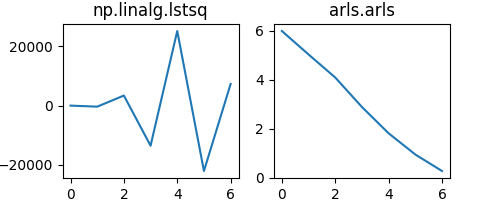
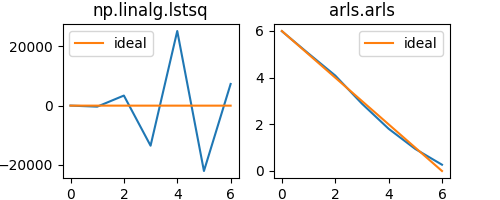
update figure

diff --git a/README.md b/README.md
@@ -112,6 +112,9 @@ x_arls = arls(A, b)
 
 ![example.png](example.png)
 
+It can clearly be noticed, that the standard least squares solver starts to oscillate and the coefficients are actually around 10000 times larger than expected.
+ARLS however, can find a very good solution, close to the ideal solution that is desired (of course, it cannot give the exact same solution, as we have added noise!).
+
 
 ## Origin of the code and Matlab version
 
